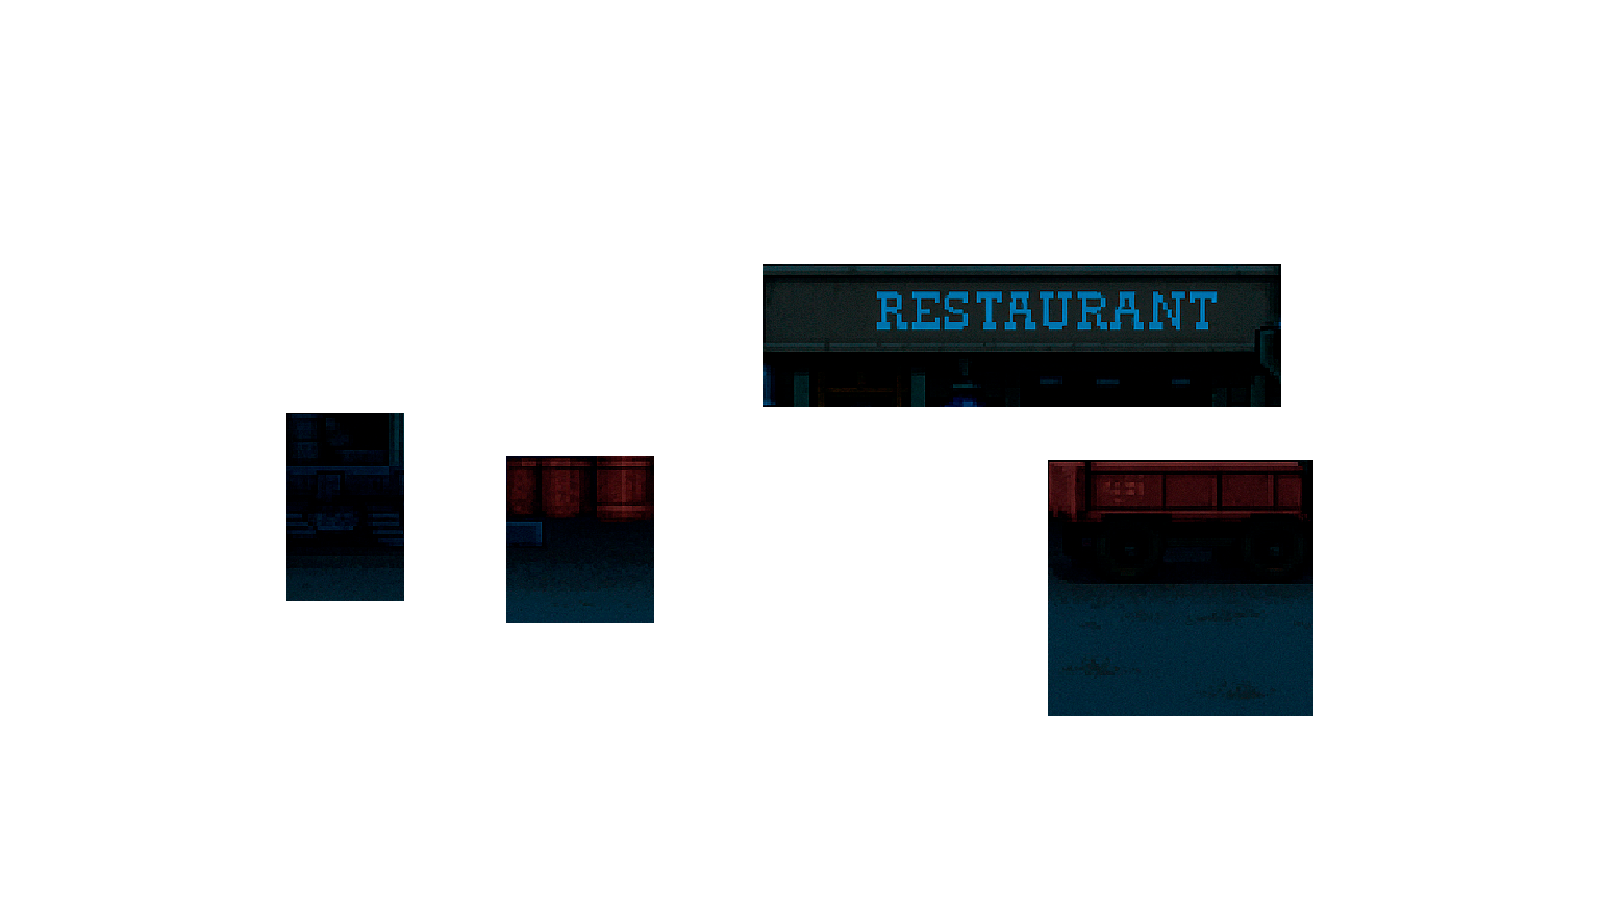
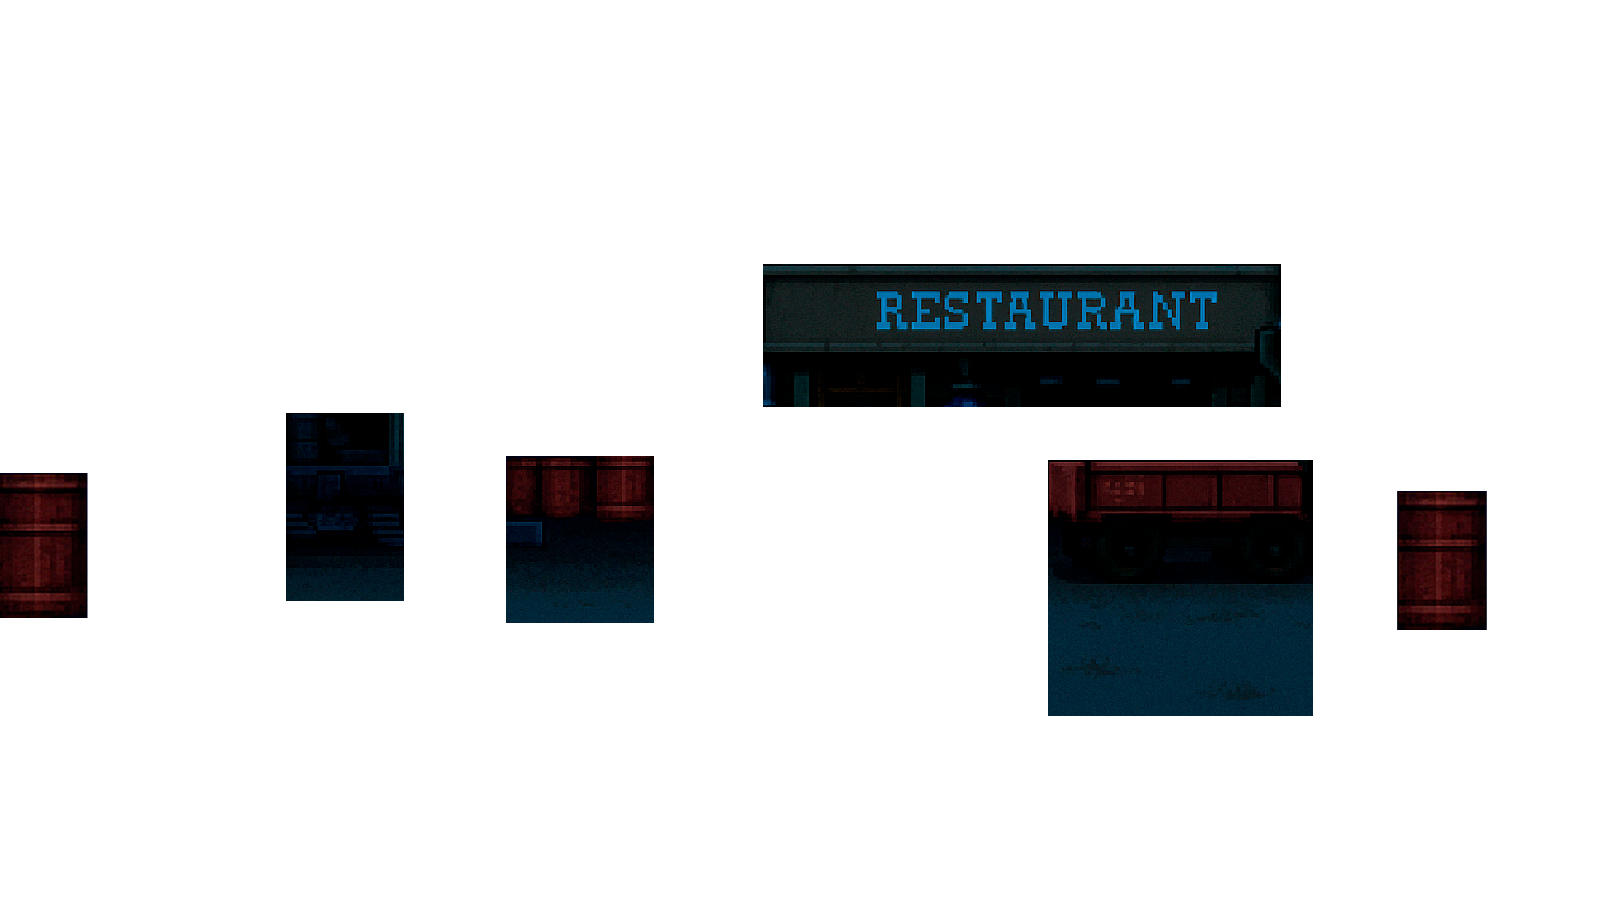
melhorias no fundo e camadas

Changed region(s): [[0.875, 0.5289, 0.9375, 0.7156], [0.0, 0.4978, 0.0625, 0.6844]]

diff --git a/fases/style.css b/fases/style.css
@@ -288,7 +288,7 @@ main {
   padding: 20px 40px;
   border-radius: 12px;
   text-align: center;
-  z-index: 1000;
+  z-index: 10000;
   box-shadow: 0 0 20px rgba(0, 0, 0, 0.5);
   animation: fadeInOut 3s ease-in-out;
 }
